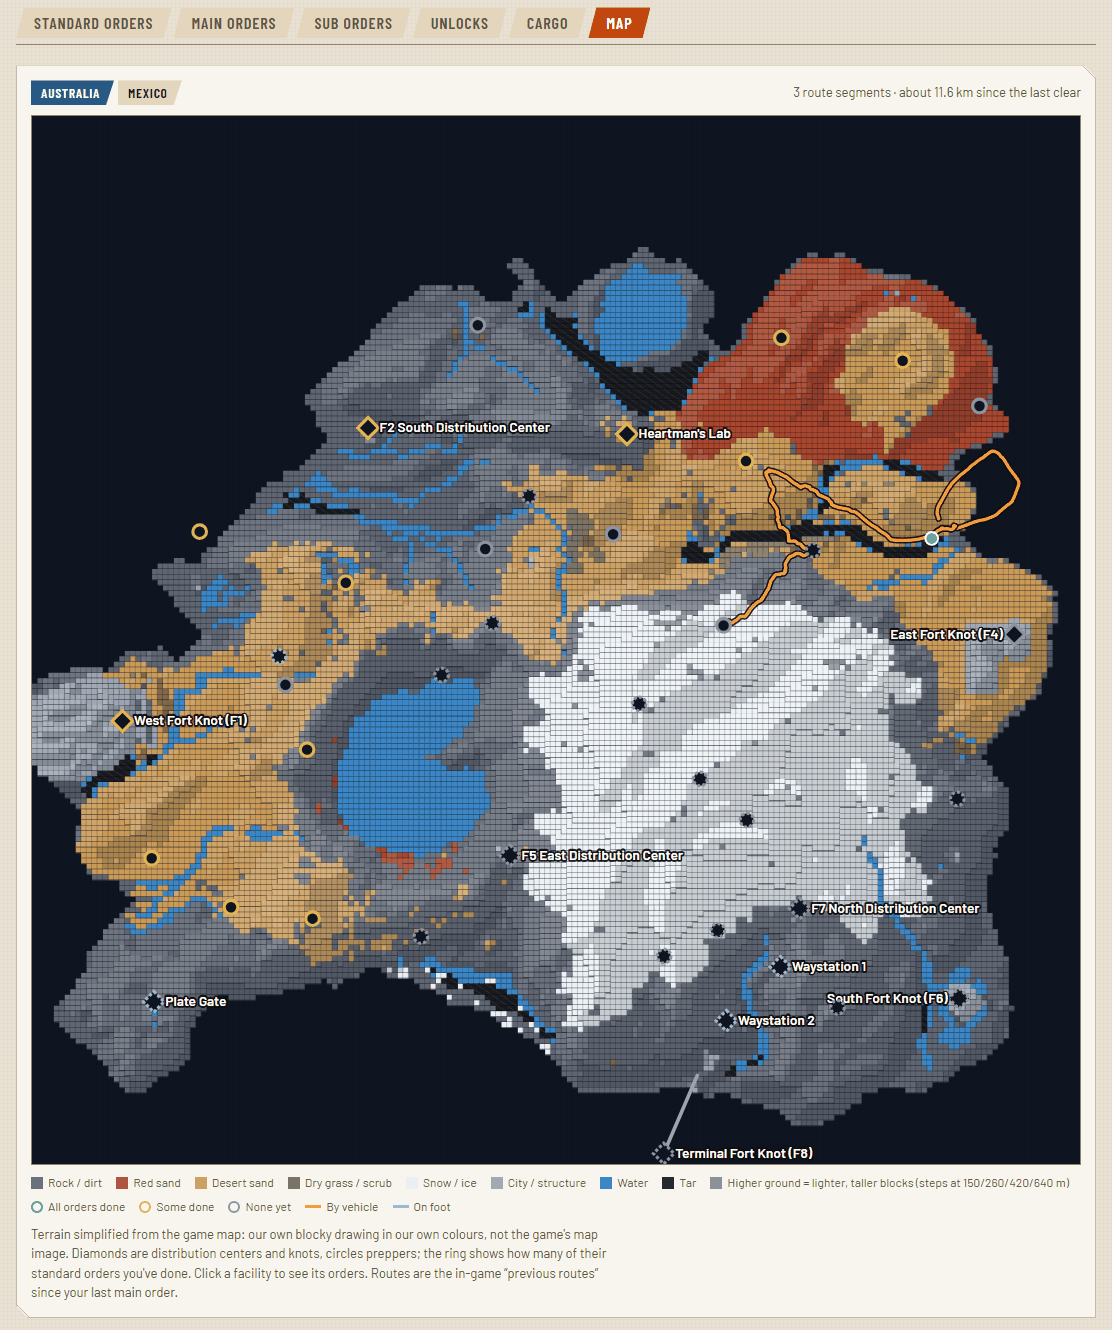
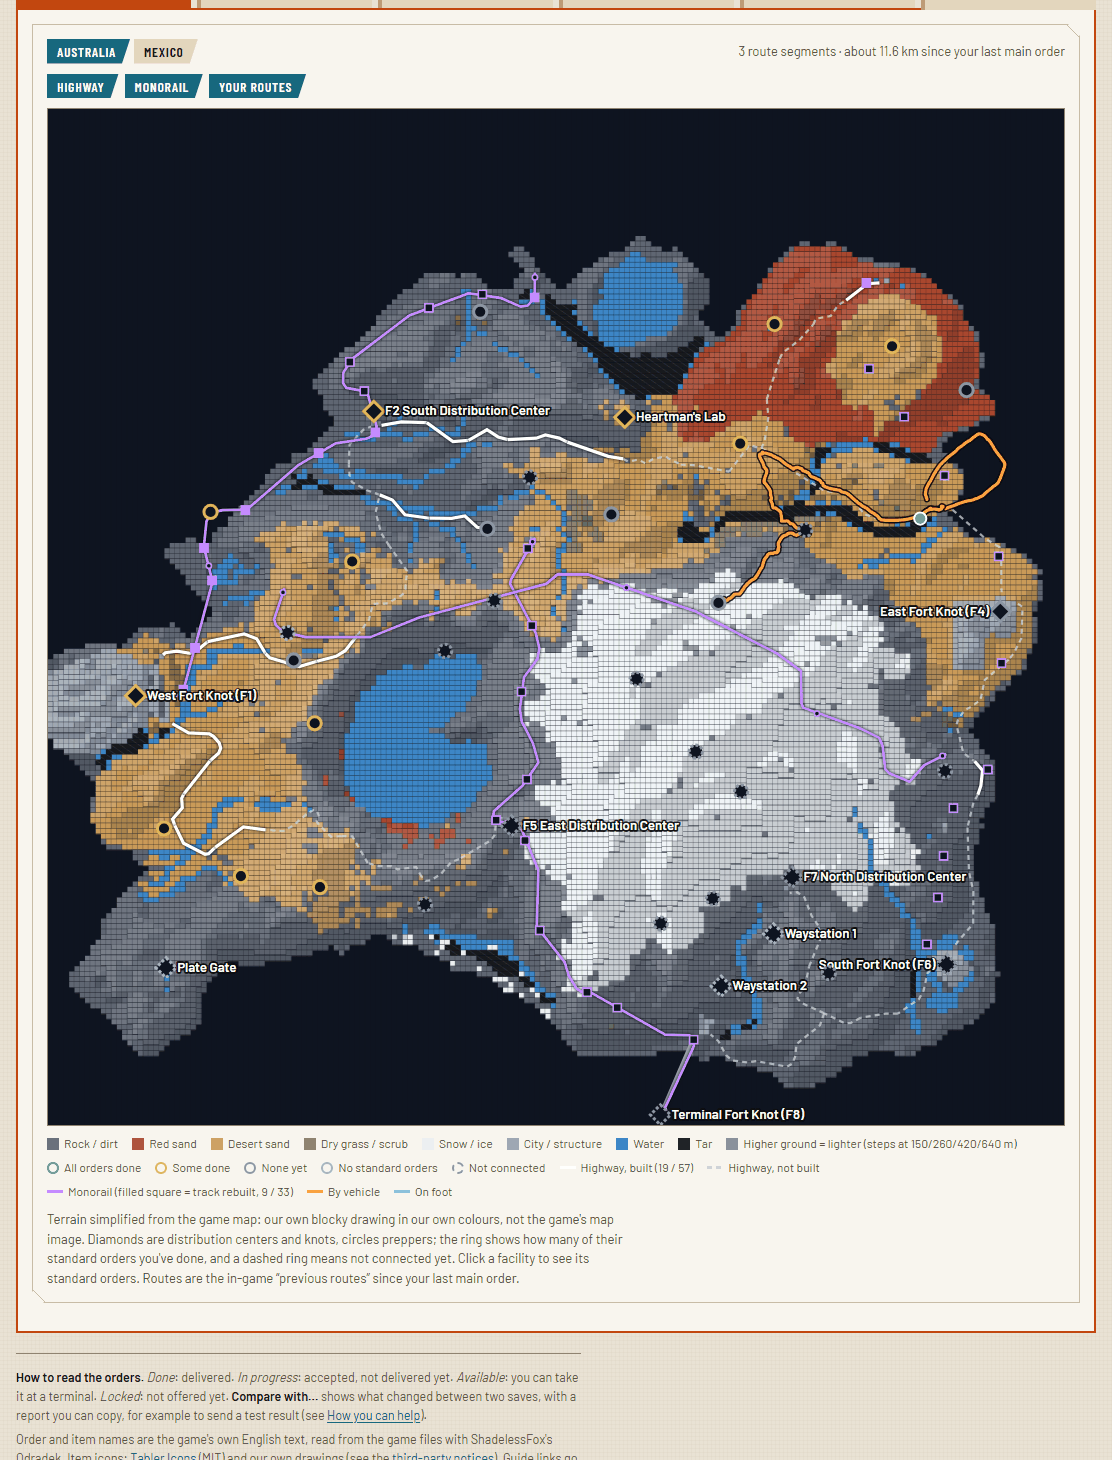
Fresh screenshots and docs for the latest changes; tab cards the same height

diff --git a/viewer/index.html b/viewer/index.html
@@ -949,7 +949,7 @@ footer b{color:var(--ink)}
       main: [`${count(main, "done")} / ${main.length}`, pct(count(main, "done"), main.length), `${count(main, "prog")} in progress`],
       sub: [`${count(sub, "done")} / ${sub.length}`, pct(count(sub, "done"), sub.length), `${count(sub, "avail")} available now`],
       craft: [`${unl} / ${tracked.length}`, pct(unl, tracked.length), "unlocked"],
-      cargo: [`${(state.cargo || []).length} items`, null, "what you carry and your private lockers"],
+      cargo: [`${(state.cargo || []).length} items`, null, "carried + lockers"],
       routes: r && hwN ? [`${r.hw.length} / ${hwN} roads`, pct(r.hw.length, hwN), "highway built"] : ["", null, "facilities and routes"],
       changes: ["", null, "between two saves"],
     };
@@ -959,7 +959,7 @@ footer b{color:var(--ink)}
       const b = $("tab-" + t); if (!b.dataset.l) b.dataset.l = b.textContent.trim();
       const [n, p, note] = info[t];
       b.innerHTML = `<span class="tl">${esc(b.dataset.l)}</span>${n ? `<span class="tn">${esc(n)}</span>` : ""}`
-        + (p !== null ? `<span class="tb"><i style="width:${p}%"></i></span>` : "") + `<span class="tx">${esc(note)}</span>`;
+        + (p !== null ? `<span class="tb"><i style="width:${p}%"></i></span>` : `<span class="tb" style="visibility:hidden"></span>`) + `<span class="tx">${esc(note)}</span>`;
       b.setAttribute("aria-selected", String(t === tab));
     });
   }

diff --git a/viewer/template.html b/viewer/template.html
@@ -958,7 +958,7 @@ footer b{color:var(--ink)}
       main: [`${count(main, "done")} / ${main.length}`, pct(count(main, "done"), main.length), `${count(main, "prog")} in progress`],
       sub: [`${count(sub, "done")} / ${sub.length}`, pct(count(sub, "done"), sub.length), `${count(sub, "avail")} available now`],
       craft: [`${unl} / ${tracked.length}`, pct(unl, tracked.length), "unlocked"],
-      cargo: [`${(state.cargo || []).length} items`, null, "what you carry and your private lockers"],
+      cargo: [`${(state.cargo || []).length} items`, null, "carried + lockers"],
       routes: r && hwN ? [`${r.hw.length} / ${hwN} roads`, pct(r.hw.length, hwN), "highway built"] : ["", null, "facilities and routes"],
       changes: ["", null, "between two saves"],
     };
@@ -968,7 +968,7 @@ footer b{color:var(--ink)}
       const b = $("tab-" + t); if (!b.dataset.l) b.dataset.l = b.textContent.trim();
       const [n, p, note] = info[t];
       b.innerHTML = `<span class="tl">${esc(b.dataset.l)}</span>${n ? `<span class="tn">${esc(n)}</span>` : ""}`
-        + (p !== null ? `<span class="tb"><i style="width:${p}%"></i></span>` : "") + `<span class="tx">${esc(note)}</span>`;
+        + (p !== null ? `<span class="tb"><i style="width:${p}%"></i></span>` : `<span class="tb" style="visibility:hidden"></span>`) + `<span class="tx">${esc(note)}</span>`;
       b.setAttribute("aria-selected", String(t === tab));
     });
   }

diff --git a/README.md b/README.md
@@ -60,7 +60,8 @@ Steam Deck are untested, so reports are welcome. Console saves are not supported
 - **Cargo & lockers**: what Sam has equipped and in the backpack, and what is in your **private locker at each facility**,
   including how much of each material.
 - **APAS** (in the Unlocks tab): every enhancement, marked developed, available to develop, or not available yet.
-- **Map**: every facility with its order progress, and your routes, on our own blocky map (see [The map](#the-map)).
+- **Map**: every facility with its order progress, the **highway and monorail with the sections you've built**, and
+  your routes, on our own blocky map (see [The map](#the-map)).
 - **Likes** from NPCs, from other porters and given, and the **in-game day and time** of the save.
 - **Save check**: each save is checked against its own built-in checksum, so a damaged file is spotted.
 - **Compare two saves** (opens a **Changes** tab): which orders changed, what got unlocked and where you travelled in between, with a report
@@ -70,17 +71,21 @@ Steam Deck are untested, so reports are welcome. Console saves are not supported
   **light and dark look**.
 
 <p align="center">
-  <img src="assets/screenshots/weapons.png" width="49%" alt="Weapon unlocks with generic icons, level and weapon-type badges, unlocked and locked state, and the order or facility level that unlocks each">
+  <img src="assets/screenshots/weapons.png" width="49%" alt="Weapon unlocks with item icons, unlocked items readable and locked ones blurred behind Show spoiler buttons">
   <img src="assets/screenshots/standard-orders.png" width="49%" alt="Standard orders for Ciudad Nudo del Norte: connection level, material stock, level rewards and each order's state">
 </p>
 
 ### The map
 
-The **Map** tab shows your progress on a blocky map of Australia or Mexico: every facility, ringed by how many of its
-standard orders you've done, and the routes you travelled since your last main order (on foot or by vehicle). Click
-a facility to jump to its orders.
+The **Map** tab shows your progress on a blocky map of Australia or Mexico:
+- every facility, ringed by how many of its standard orders you've done (click one to jump to its orders);
+- the **highway**: sections you've built are solid, the rest dashed, with a count (for example 19 / 57);
+- the **monorail** lines and stations, with a filled marker for each track section you've rebuilt;
+- the routes you travelled since your last main order, on foot or by vehicle.
 
-<p align="center"><img src="assets/screenshots/map.png" width="820" alt="Blocky map of Australia with surface types, facilities ringed by order progress and routes by vehicle"></p>
+Each layer can be switched on and off.
+
+<p align="center"><img src="assets/screenshots/map.png" width="820" alt="Blocky map of Australia with surface types, facilities ringed by order progress, the highway (built sections solid), the monorail and routes by vehicle"></p>
 
 The map and the item icons are our own drawings: the terrain is simplified from the game's map into blocks and
 surface types in our own colours, and every item gets a generic icon for its kind. The game's own map image and item
@@ -96,11 +101,12 @@ pictures are copyrighted, so they aren't included.
 | Cargo: equipped, backpack, private lockers, material amounts | ✅ Which facility a locker belongs to is confirmed in game for 3 facilities so far |
 | APAS enhancements | ✅ |
 | Route history | ✅ |
+| Highway and monorail: which sections you've built | ✅ Matches the game's own statistics |
 | Likes, chiral bandwidth, in-game day and time | ✅ |
 | Signs placed in the world | 🟡 Where and which type; not yet whose |
 | Progress toward the next star | ❌ Not found yet |
 | Music, holograms, structures and colour schemes | 🟡 Worked out from the orders and connection levels that give them where possible; not read from the save directly |
-| Built structures, route planner, auto-paver progress | ❌ Not found yet |
+| Built structures, route planner, donations to unfinished pavers | ❌ Not found yet |
 
 How the file works, for the curious: [docs/FORMAT.md](docs/FORMAT.md).
 

diff --git a/docs/FORMAT.md b/docs/FORMAT.md
@@ -89,6 +89,8 @@ bit cleared.
 | `69049449` | Chiral bandwidth: `vint` at `+4` = the sum over facilities of [0, 20, 35, 50, 65, 95][level]. Then the APAS list: per enhancement the player has access to, `u32` hash of its id, `u8` developed (1) / available (0), more bytes not decoded; then a `u8` count and the hashes of the developed ones. |
 | `0aa0d44e` | Cargo: a pool of 464-byte item slots (from `+253`): `+7` container kind, `+48` 12-byte container id (`w0 w1 w2`), `+60` baggage name code, `+172` `f32` remaining amount of a material stack. Kind `0x00` = equipped, `0x34` = backpack, `0x1f` with `w2 = 36a83550` = a private locker, whose `w0` identifies the facility. |
 | `3926c2c4` | In-game clock: `f32` hour of the day at `+4` (6.0 = 06:00), `u32` day number at `+8`. |
+| `7fe13267` | Highway: near the end, a table of 58 records of 28 bytes sorted by road id (the game's `RoadInfo.Id`): `+0` `i32` id, `+4` `f32` condition %, `+8` `f32` 1.0 = built, `+16` `u8` flags. Road geometry comes from the game's `DSResidentAreaRoadInfoResource` (`catalog/roads_game.json`). |
+| `1953aea5` | World entity states: each auto-paver and monorail rebuilder's locator GUID (Microsoft byte order) followed by an `f32` durability (0 = not built; exactly 360000 in early saves, meaning unknown). Used for which monorail sections are rebuilt. |
 | `129ec9ee` | Signs (lead): a count near the start, then records of about 72-78 bytes with the sign type's hash and its `f64 x, y, z` (world metres) 36, 28 and 20 bytes before the hash. Whose sign it is is not known yet. |
 
 ## 4. Leads (not confirmed)

diff --git a/ROADMAP.md b/ROADMAP.md
@@ -43,6 +43,10 @@ one game action at a time.
 - Generic item icons with level and weapon-type badges, instead of the game's own pictures.
 - A blocky map of our own (voxel terrain simplified from the game's map) with facilities and your routes.
 - The in-game day and time on the save card.
+- The highway and monorail on the map, showing which sections you've built (read from the save; it matches the
+  game's statistics screen).
+- Spoiler protection: orders, items and rewards you haven't reached are blurred until you choose to see them.
+- Tabs that show your totals at a glance, and a new set of item icons drawn in the style of the game's menus.
 
 ## What is still to do
 
@@ -56,8 +60,8 @@ one game action at a time.
       facilities that weren't visited in the test saves.
 - [ ] **Built structures** and the **route planner:** leads only.
 - [ ] **Collectibles** (memory chips and the like).
-- [ ] **Auto-pavers:** donations show up as facility stock going down; the paver's own progress seems to be kept on
-      the server.
+- [ ] **Auto-pavers:** finished sections are read from the save; donations to an unfinished paver only show up as
+      facility stock going down, and the paver's own progress seems to be kept on the server.
 - [ ] **More players and patches:** everything so far comes from one player's saves, mostly on 1.10.89.0 (older
       1.0.45 and 1.1.53 saves also open).
 
